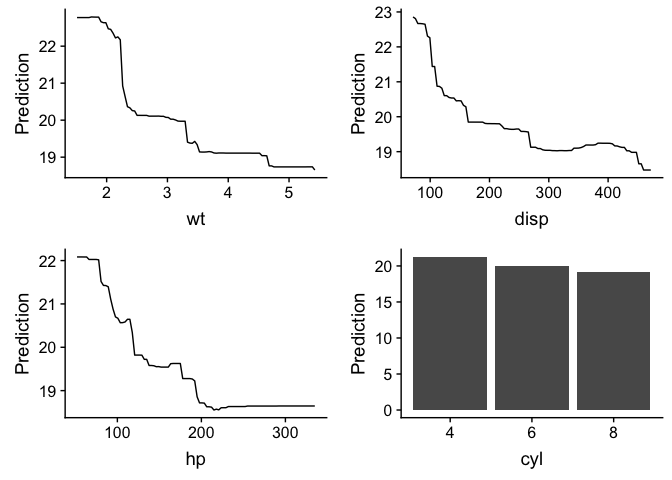
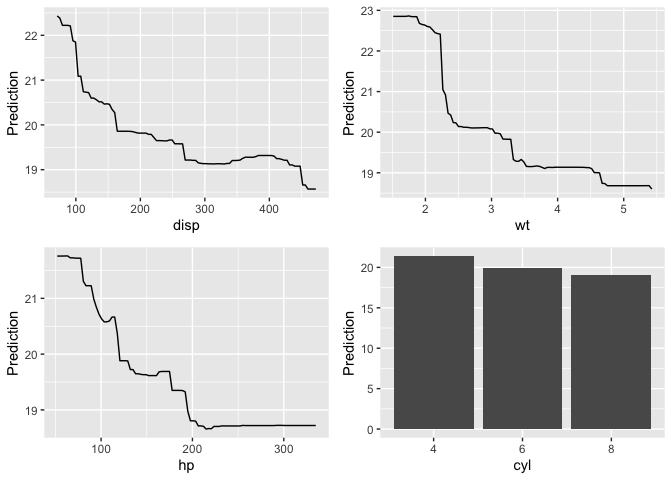
added title and subtitle to effect and importance plot

diff --git a/README.md b/README.md
@@ -87,8 +87,14 @@ along with the data set (`mtcars`) and the name of the target variable
 ``` r
 library(cowplot)
 
-p1 <- rf %>% importance_plot(mtcars, mpg) + ggtitle("Random Forest")
-p2 <- lr %>% importance_plot(mtcars, mpg) + ggtitle("Linear Regression")
+# Random forest
+p1 <- rf %>% 
+  importance_plot(mtcars, mpg, subtitle = "Random Forest")
+
+# Linear regression
+p2 <- lr %>% 
+  importance_plot(mtcars, mpg, subtitle = "Linear Regression")
+
 plot_grid(p1, p2)
 ```
 
@@ -107,8 +113,9 @@ packages are used to display for effect plots for the four most
 ``` r
 library(purrr)
 
-feature_names <- c("wt", "disp", "hp", "cyl")
-rf_plots <- map(feature_names, effect_plot, object = rf, new_data = mtcars)
+# Random forest
+rf_feature_names <- c("disp", "wt", "hp", "cyl")
+rf_plots <- map(rf_feature_names, effect_plot, object = rf, new_data = mtcars, title = NULL)
 plot_grid(plotlist = rf_plots)
 ```
 
@@ -117,11 +124,12 @@ plot_grid(plotlist = rf_plots)
 Note that effect of the `disp` variable is reversed in the linear
 regression model. This is because the random forest captures
 interactions between the features of the model whereas the linear
-regression model does
-not.
+regression model does not.
 
 ``` r
-lr_plots <- map(feature_names, effect_plot, object = lr, new_data = mtcars)
+# Linear regression
+lr_feature_names <- c("hp", "wt", "disp", "carb")
+lr_plots <- map(lr_feature_names, effect_plot, object = lr, new_data = mtcars, title = NULL)
 plot_grid(plotlist = lr_plots)
 ```
 
